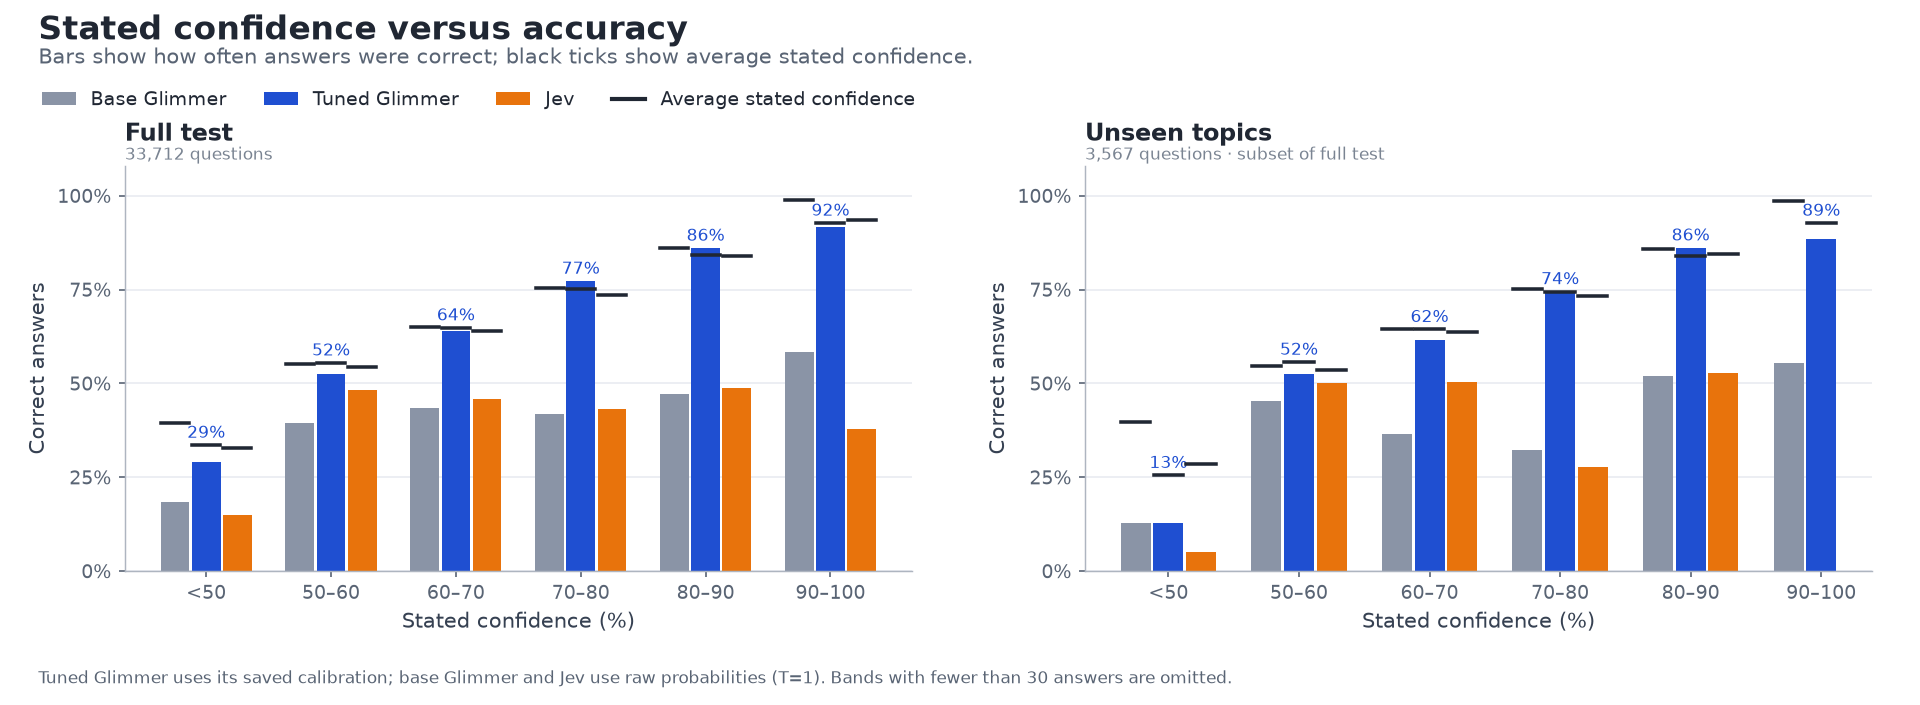
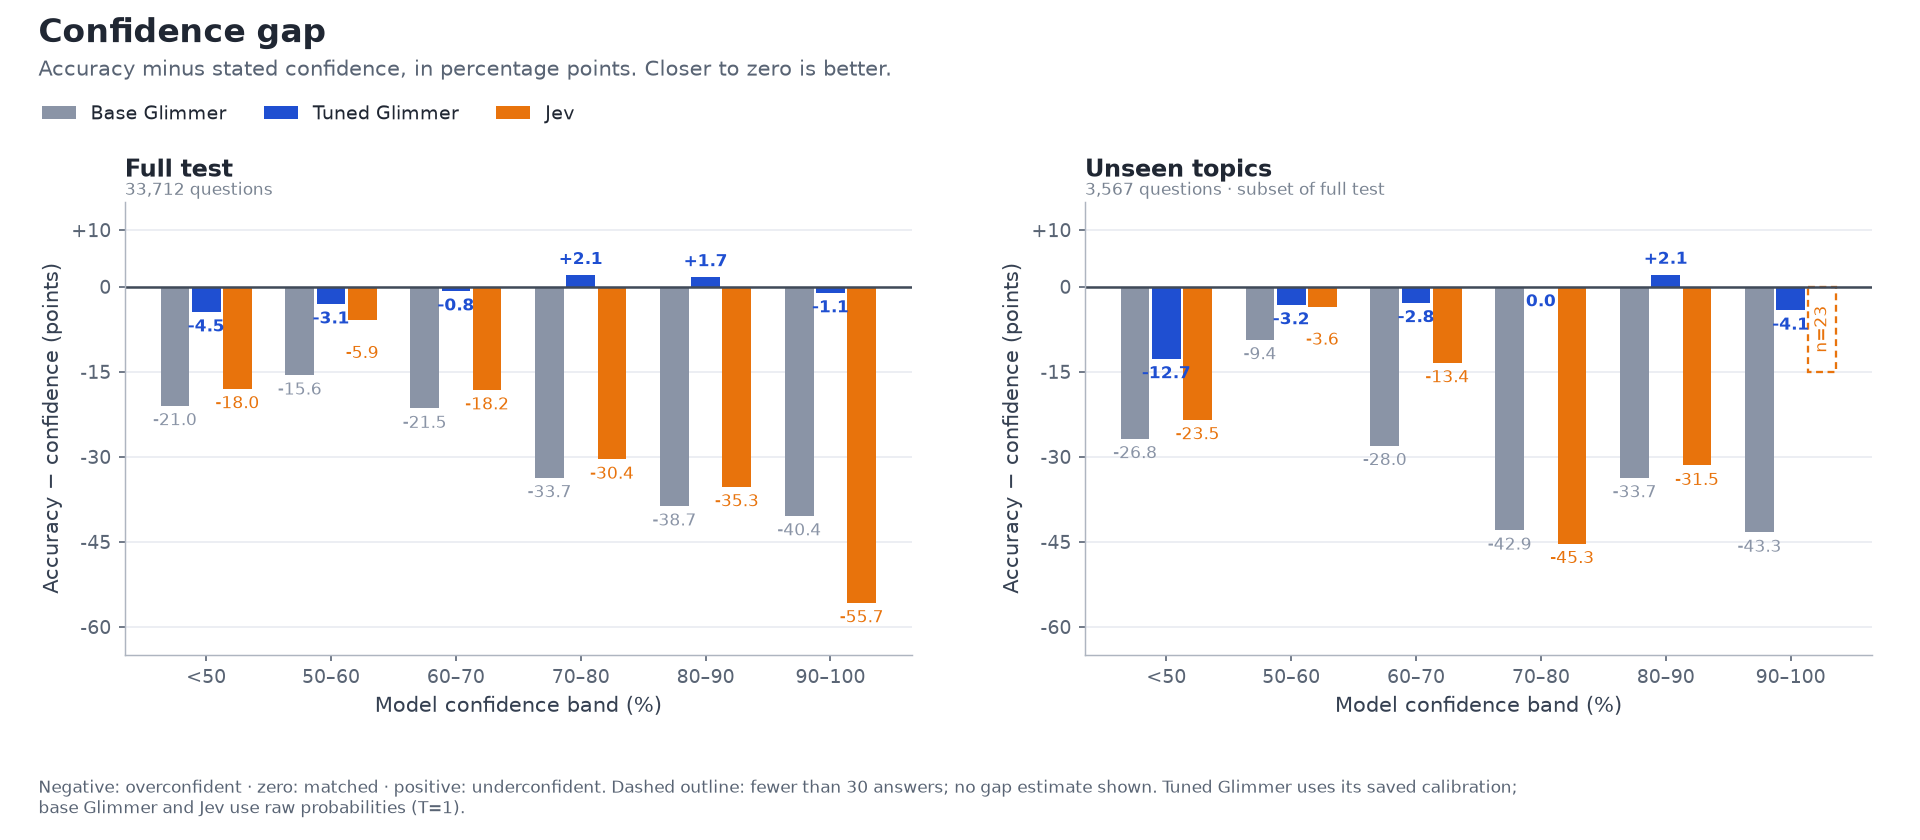
chore: promote cookbook from Fireworks staging
Cookbook-Source-Tree: a532f97122d98c09e22c17c5a341fee452fa328d

diff --git a/training/examples/decision/kalshi_v1/README.md b/training/examples/decision/kalshi_v1/README.md
@@ -13,7 +13,7 @@ Fireworks Training API and K-way cross-entropy.
 **Only tuned Glimmer is calibrated. Base Glimmer and Jev use raw probabilities
 (`T=1`).** Results were recomputed from saved model readouts.
 
-![Test accuracy, accuracy when confident, and historical server latency](media/kalshi-clean-hero.png)
+![Historical paper-allocation value as markets settle](media/kalshi-clean-backtest-equity.png)
 
 ## One test set
 
@@ -106,6 +106,8 @@ historical latency measurements are separate.
 
 The unseen-topic column is a subset of the full test, not an additional test.
 
+![Test accuracy, accuracy when confident, and historical server latency](media/kalshi-clean-hero.png)
+
 | System | Full-test accuracy | Unseen-topic accuracy | Full-test Brier sum ↓ | Full-test ECE ↓ |
 |---|---:|---:|---:|---:|
 | Common-answer reference | 56.3% | 52.9% | — | — |
@@ -128,7 +130,12 @@ confidence bins.
 | 70% | 11,738 → 81.2% | 598 → 78.9% |
 | **80%** | **4,868 → 86.8%** | **219 → 86.8%** |
 
-![Observed accuracy and stated confidence by confidence band](media/kalshi-clean-calibration.png)
+The confidence gap is observed accuracy minus average stated confidence in each
+band. Closer to zero is better; negative values indicate overconfidence and
+positive values indicate underconfidence. Dashed outlines mark bands with fewer
+than 30 answers, for which no gap estimate is displayed.
+
+![Accuracy minus stated confidence by confidence band; closer to zero is better](media/kalshi-clean-calibration.png)
 ![Accuracy as predictions become more selective](media/kalshi-clean-confidence-filter.png)
 
 Raw base Glimmer is frequently very confident: 31,334 full-test answers exceed
